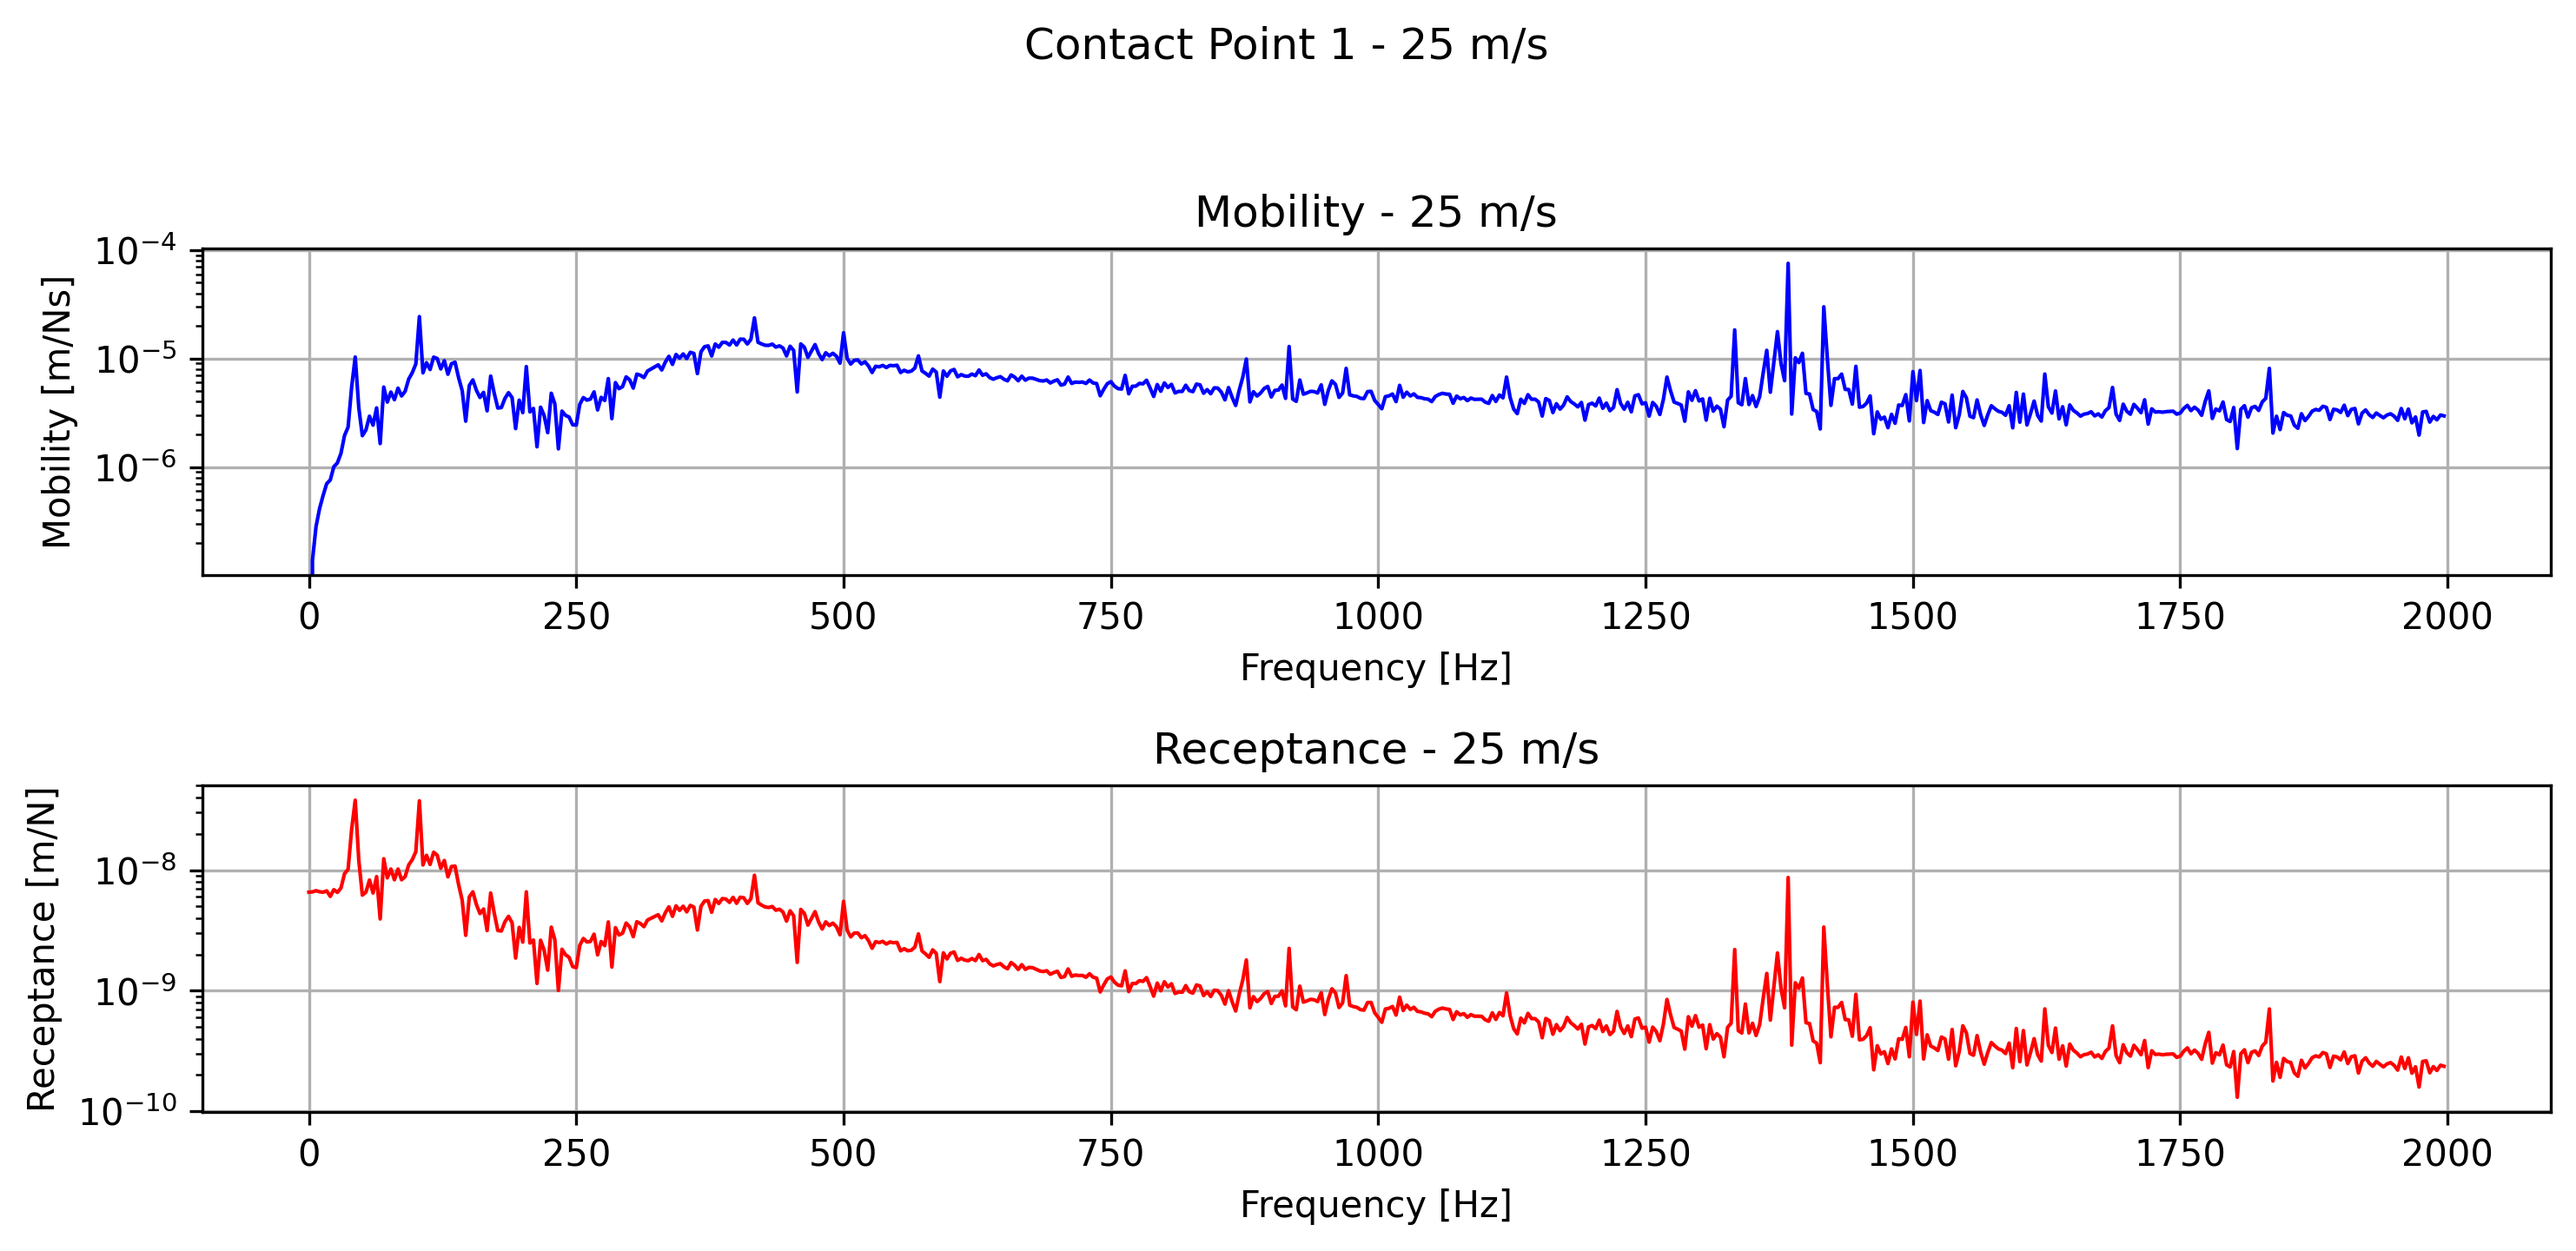
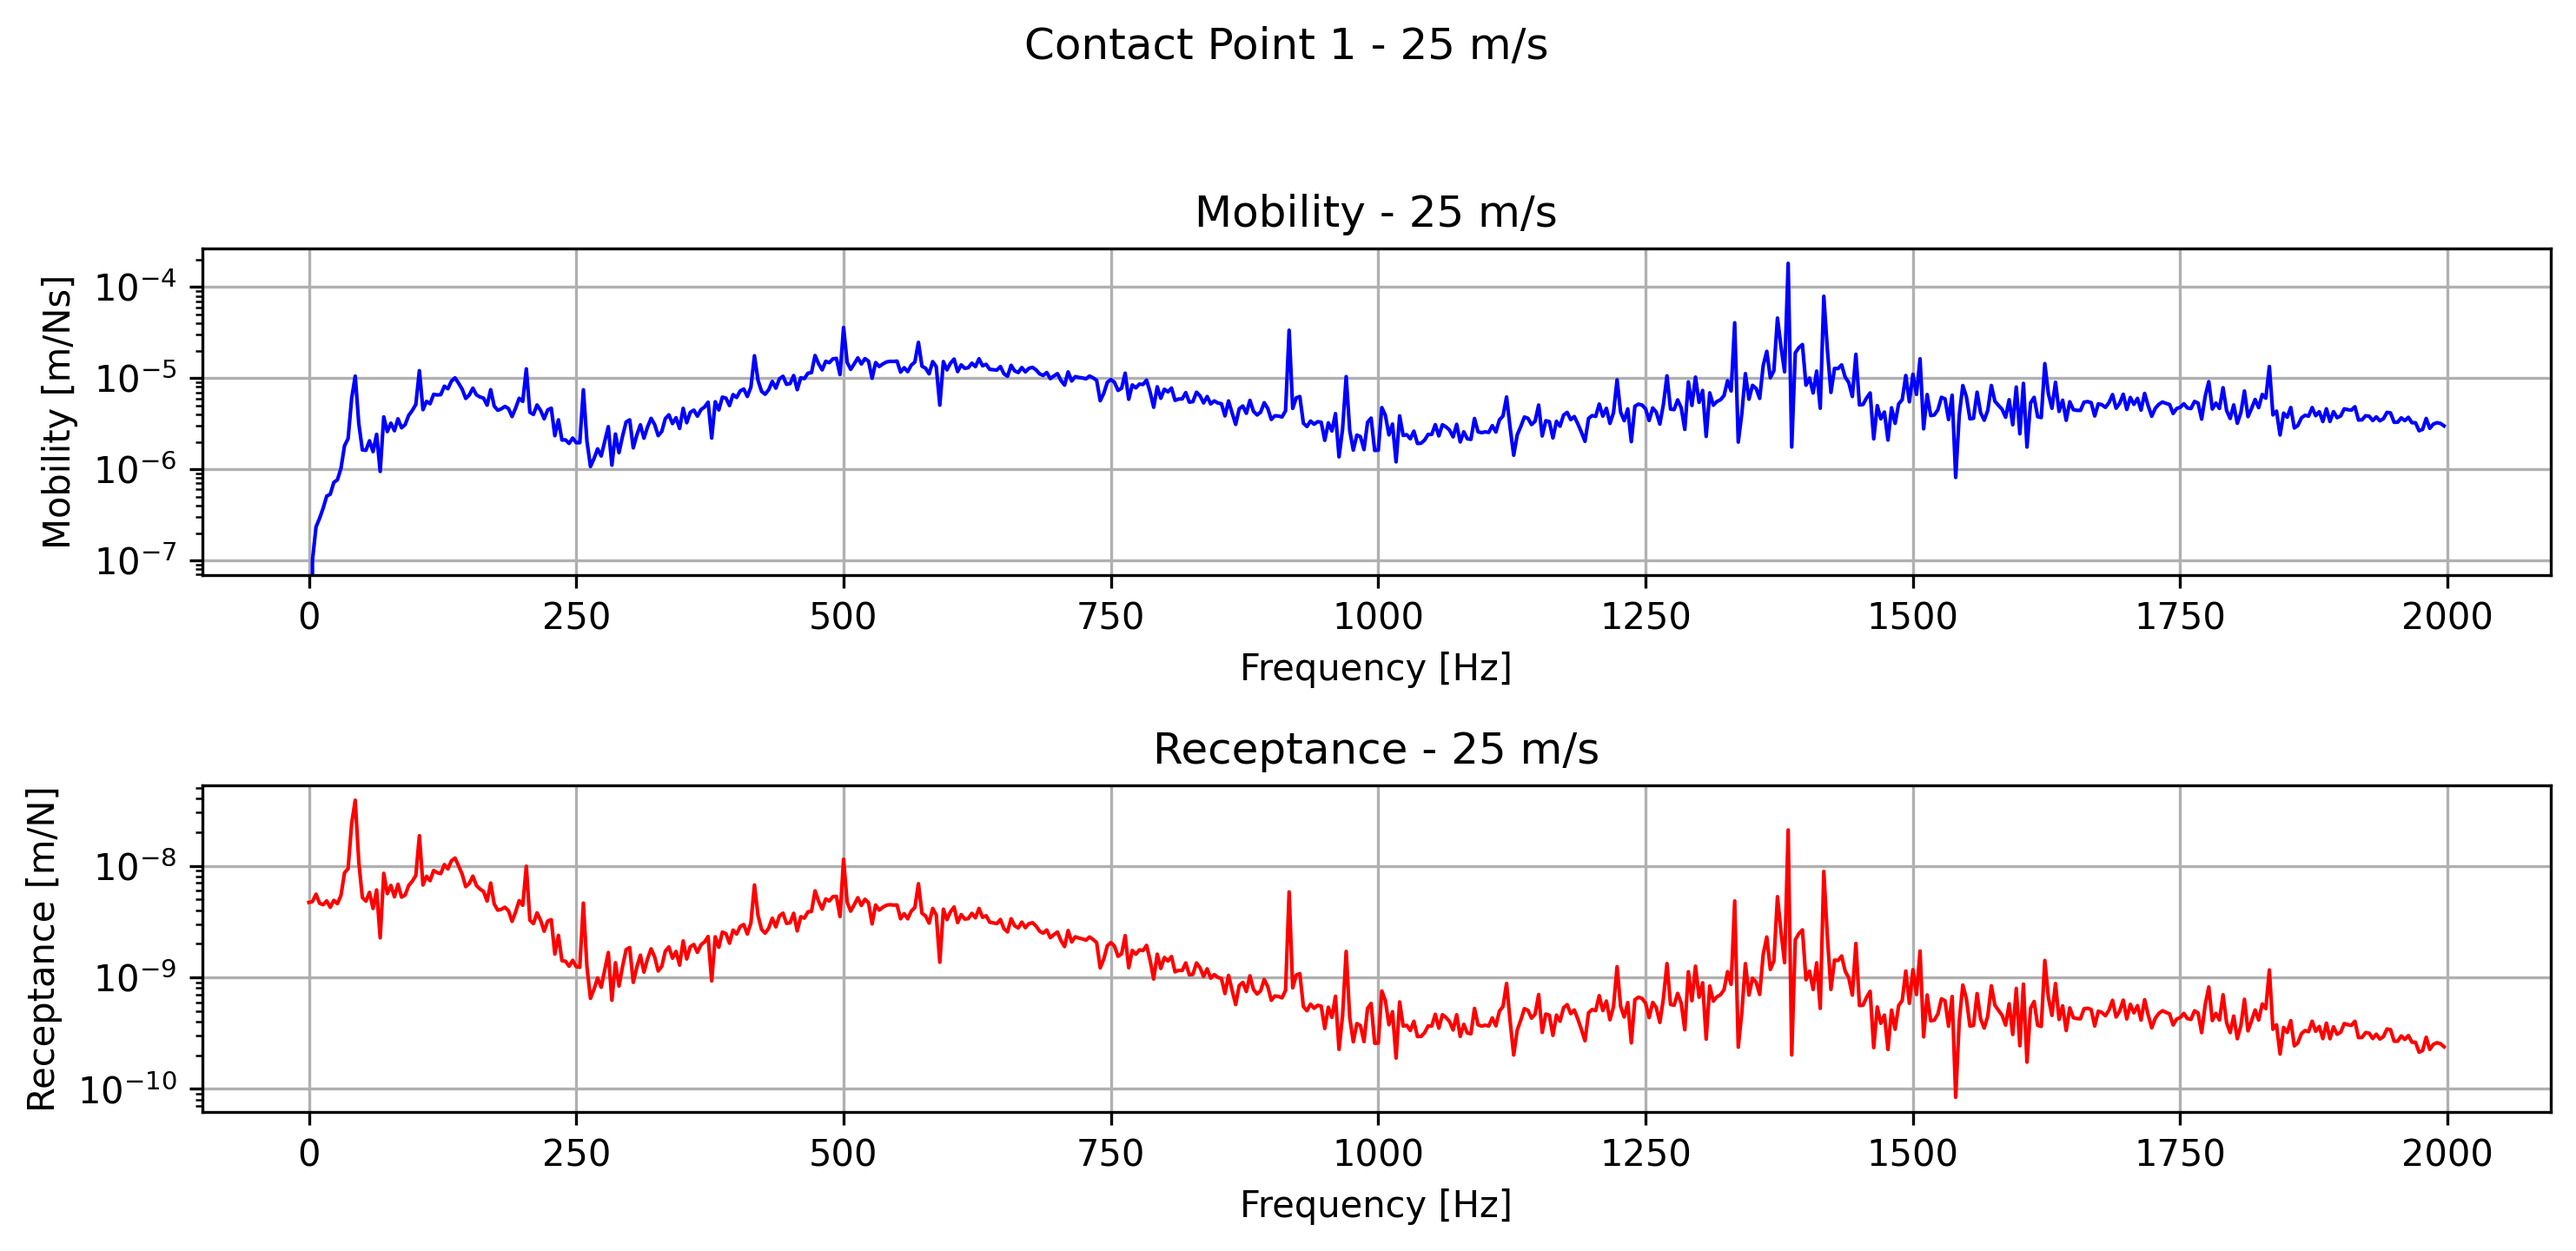
Nordborg parameters used

diff --git a/Moving_Force.py b/Moving_Force.py
@@ -37,13 +37,13 @@ from pathlib import Path
 track = SimplePeriodicBallastedSingleRailTrack(
     rail    = UIC60,                # Standard UIC60 rail profile
     pad     = DiscrPad(
-                sp = [180e6, 0],      # Stiffness properties [N/m]
-                dp = [18000, 0]       # Damping properties [Ns/m]
+                sp = [300e6, 0],    # Pad Stiffness [N/m]
+                dp = [18000, 0]     # Pad Damping [Ns/m]
     ),
     sleeper = Sleeper(ms=150),      # Sleeper mass [kg]
     ballast = Ballast(
-                sb = [105e6, 0],      # Ballast stiffness [N/m]
-                db = [48000, 0]       # Ballast damping [Ns/m]
+                sb = [150e6, 0],    # Ballast stiffness [N/m]
+                db = [48000, 0]     # Ballast damping [Ns/m]
     ),
     num_mount   = 60,               # Number of discrete mounting positions
     distance    = 0.6               # Distance between sleepers [m]
@@ -73,10 +73,11 @@ for vel in velocities:
     print(f"Computing velocity: {vel} m/s ({vel*3.6:.1f} km/h)")
     
     # Define moving load excitation
+    starting_position = 15.0
     excitation = ConstantForce(
-        x_excit         = [15.0],       # Starting positions [m]
-        velocity        = float(vel),   # Velocity [m/s]
-        force_amplitude = 50000.0       # [N]
+        x_excit         = [starting_position],    # Starting positions [m]
+        velocity        = float(vel),                   # Velocity [m/s]
+        force_amplitude = 65000.0                       # [N]
     )
 
     # Discretize domain
